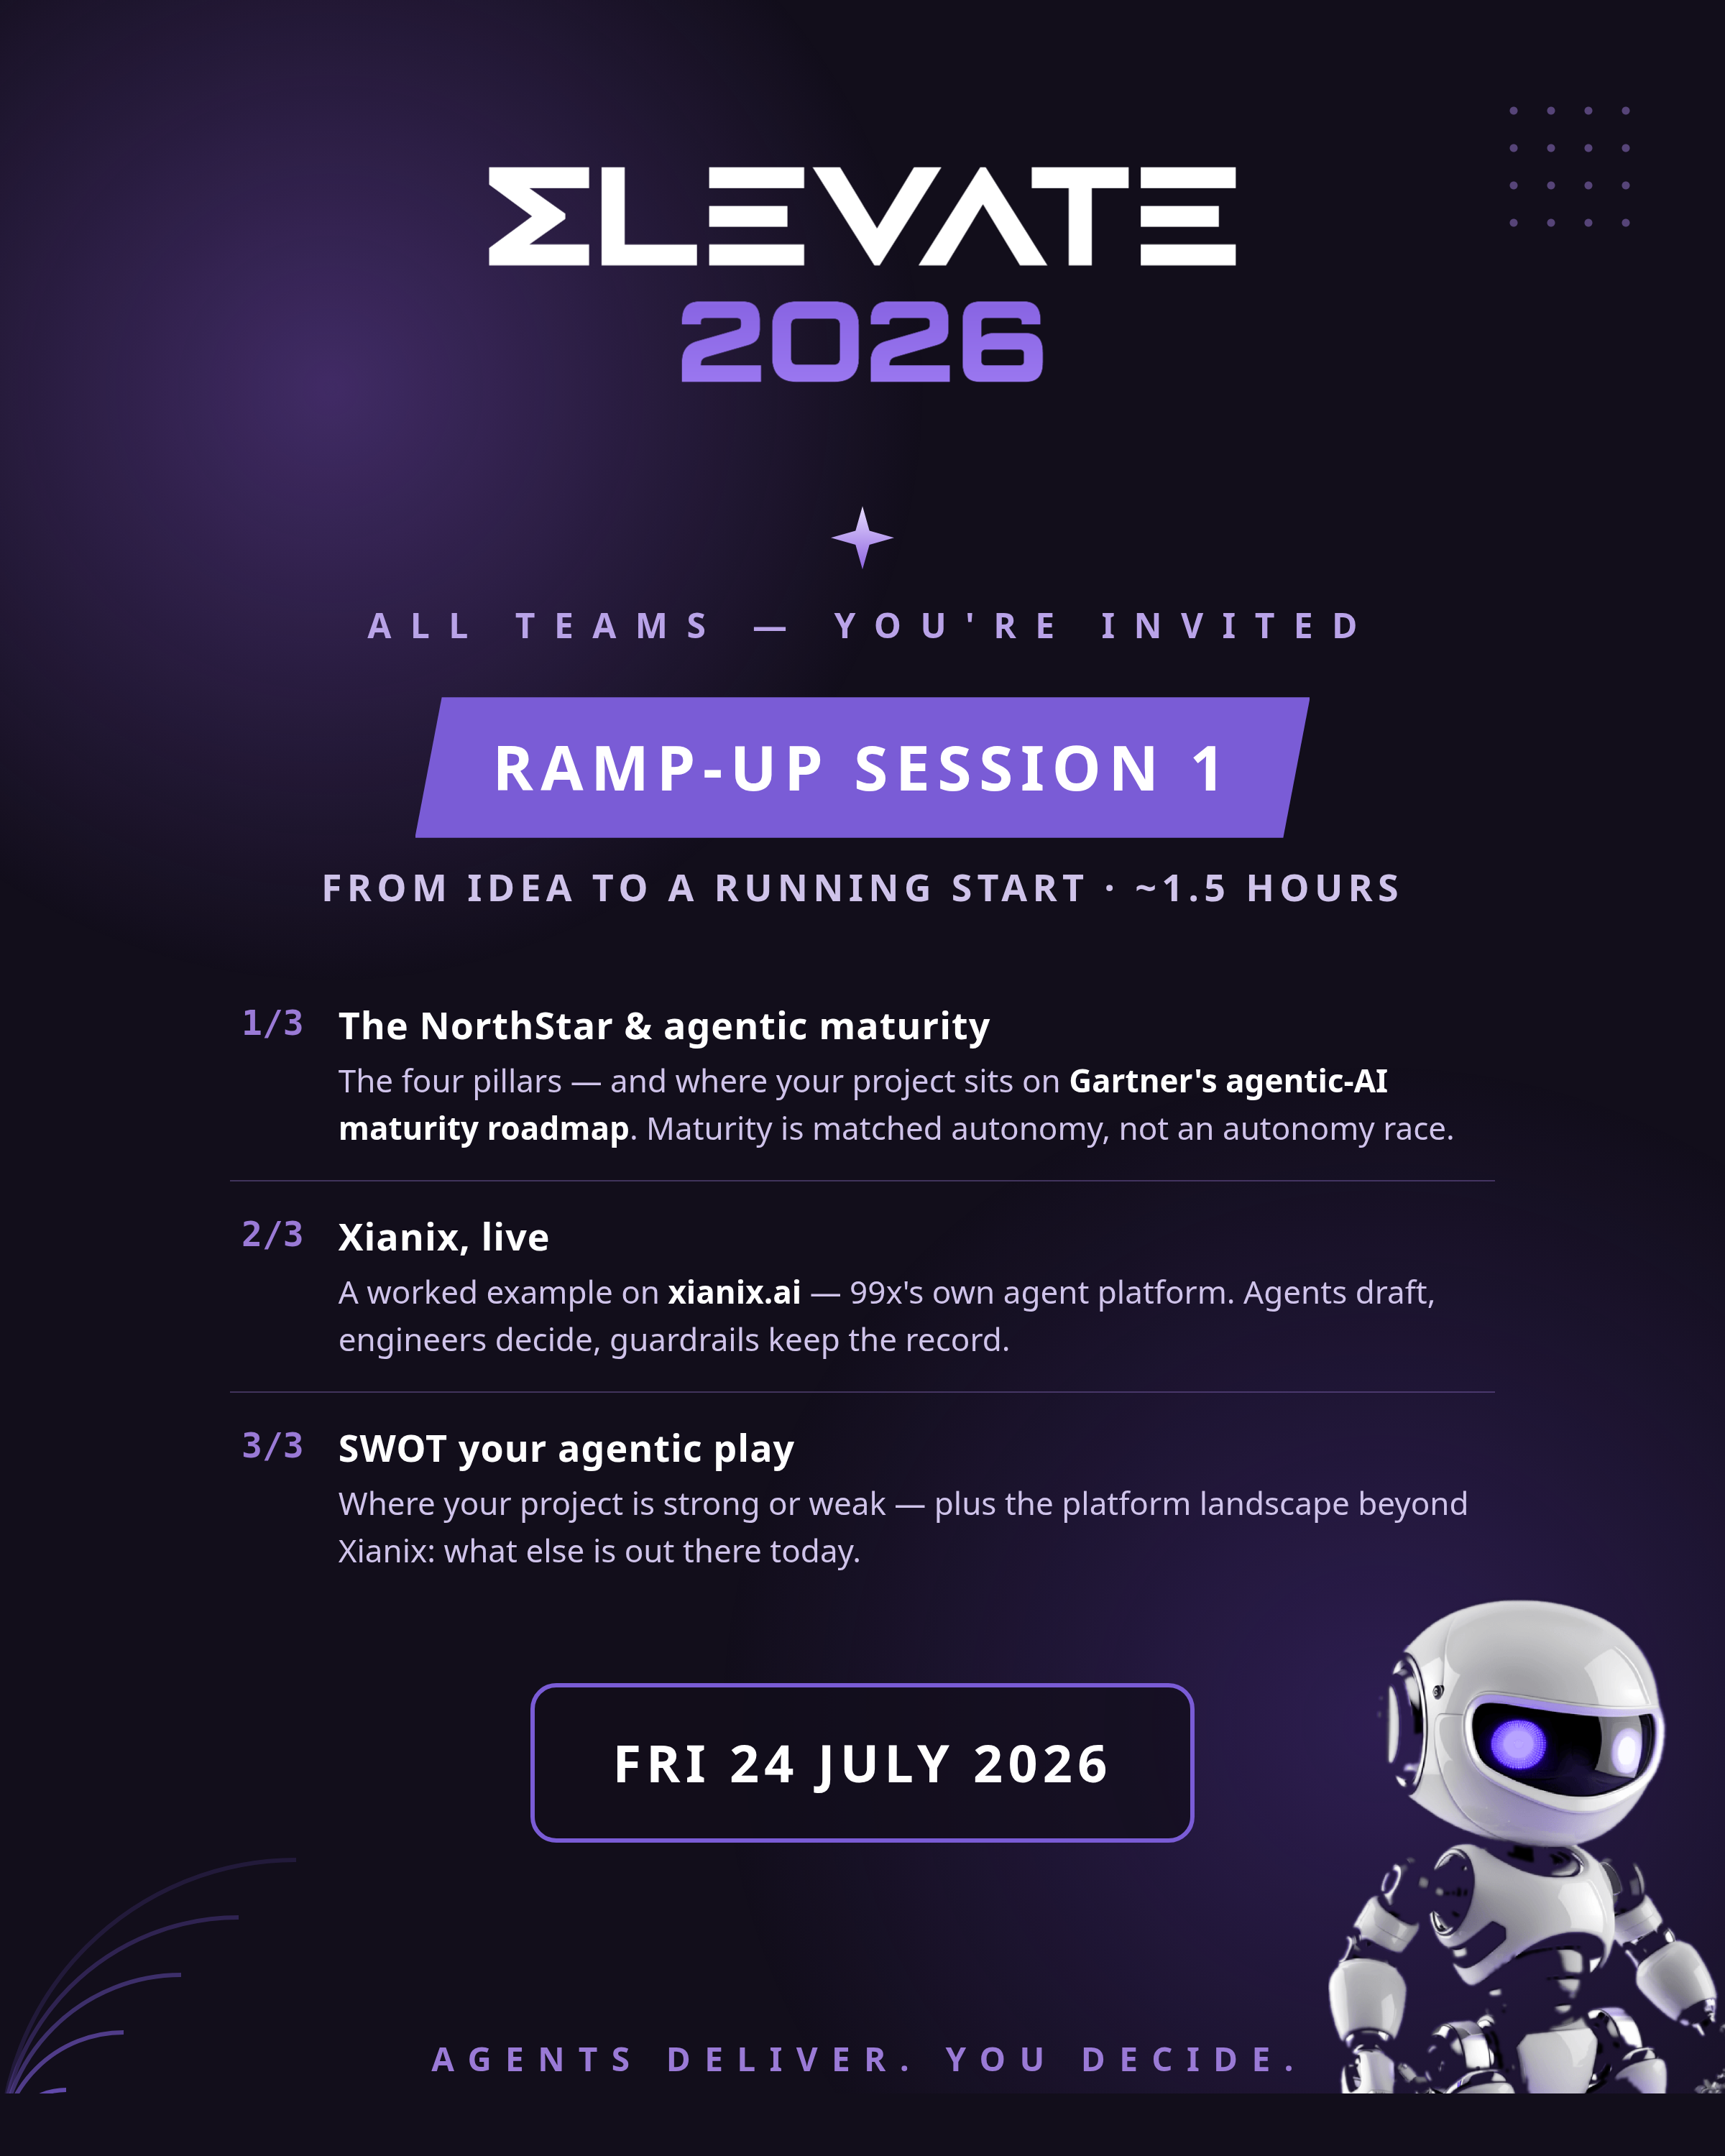
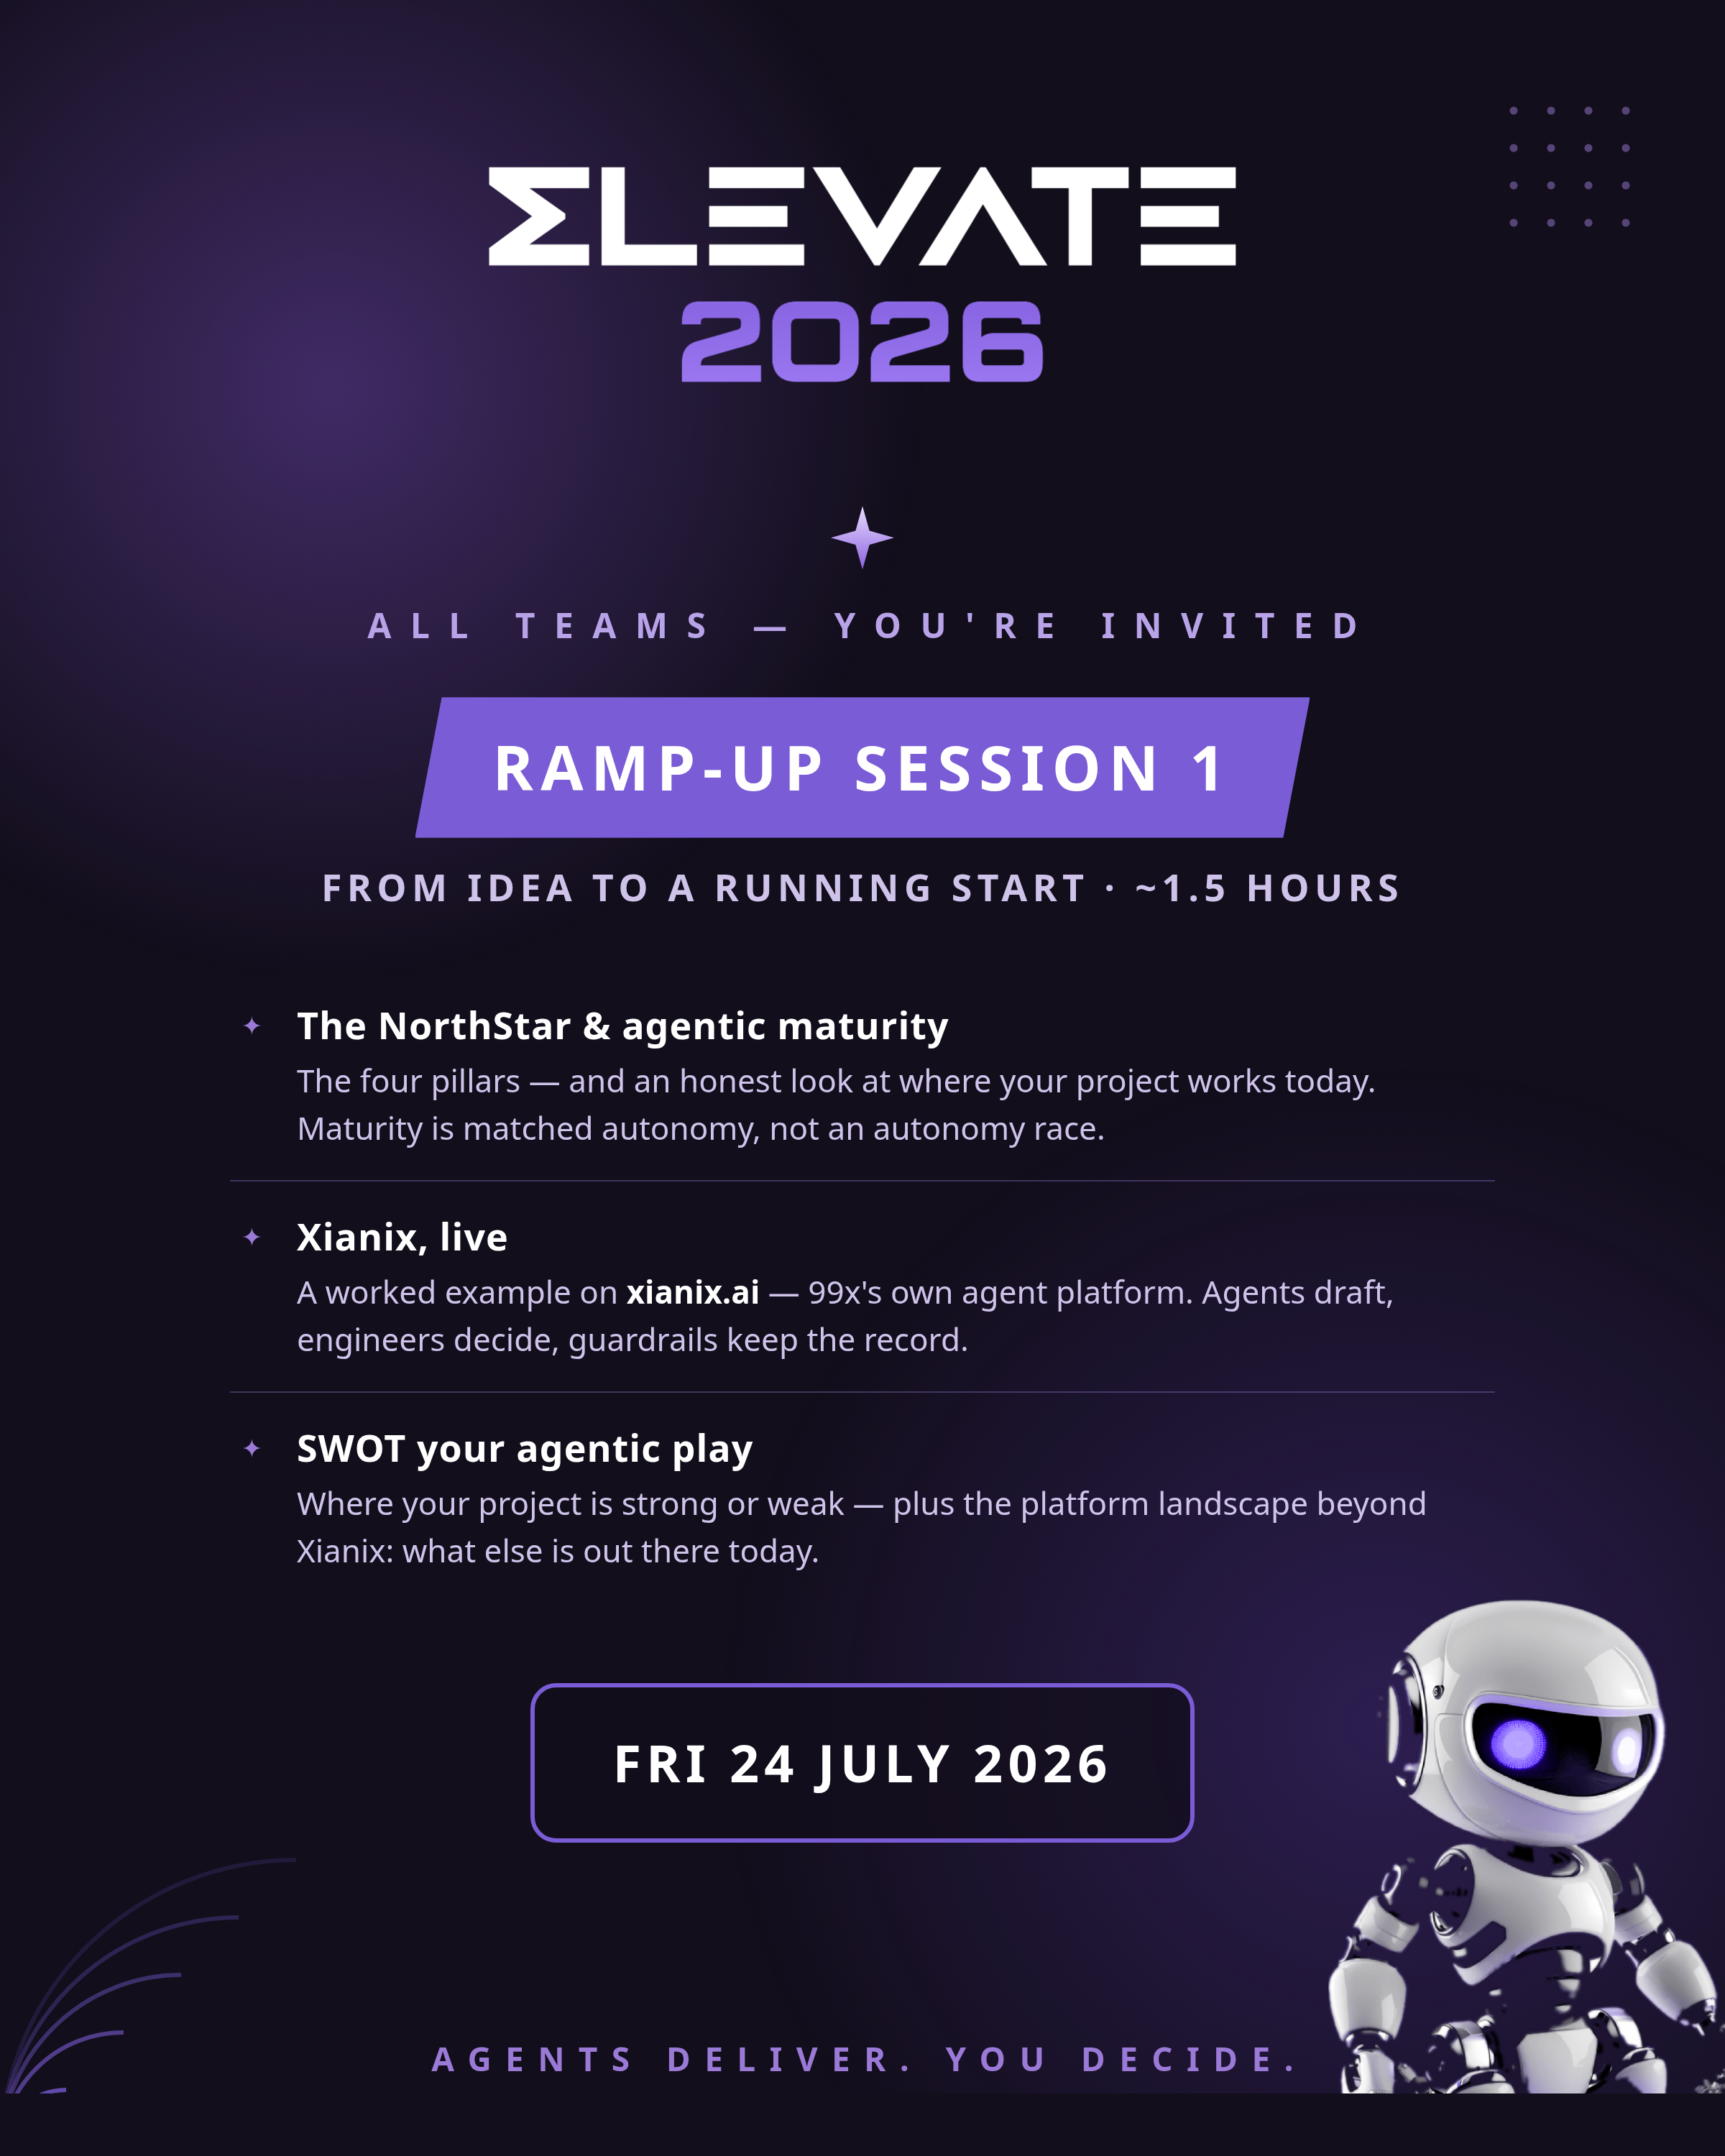
Publish public site from asitha-w/ELEVATE2026

Changed region(s): [[0.1562, 0.558, 0.8438, 0.744], [0.1562, 0.465, 0.8125, 0.527]]

diff --git a/index.html b/index.html
@@ -607,17 +607,15 @@
       <h3>Ramp-up Session 1 — from idea to a running start</h3>
       <span class="when">Fri 24 Jul · ~1.5h</span>
       <ul>
-        <li><b>1/3 · The NorthStar &amp; agentic maturity</b> — plug the four pillars, then locate each
-            project on <b>Gartner's agentic-AI maturity roadmap</b> (five levels: task-specific
-            assistants → single agents with human gates → orchestrated multi-agent systems →
-            largely autonomous operations). The takeaway: <b>maturity is matched autonomy, not an
-            autonomy race</b> — Gartner predicts 40%+ of agentic projects canceled by 2027 for
-            unclear value, exactly what our rubric scores against.</li>
-        <li><b>2/3 · Xianix, live</b> — a worked example on <a href="https://xianix.ai/">xianix.ai</a>,
+        <li><b>The NorthStar &amp; agentic maturity</b> — the four pillars, and an honest look at
+            where each project works today. The takeaway: <b>maturity is matched autonomy, not an
+            autonomy race</b> — autonomy without clear value is exactly what the scorecard
+            scores against.</li>
+        <li><b>Xianix, live</b> — a worked example on <a href="https://xianix.ai/">xianix.ai</a>,
             99x's own agent platform: FDE-style pods of AI agents + human engineers.
             <i>"AI agents do the work. Humans own the outcome"</i> — the same thesis as our tagline.
             Built on Claude Code plugins, open, no vendor lock-in.</li>
-        <li><b>3/3 · SWOT + the platform landscape</b> — each team SWOTs its agentic play, with a map
+        <li><b>SWOT + the platform landscape</b> — each team SWOTs its agentic play, with a map
             of what's popular beyond Xianix as of today: <b>managed platforms</b> — Microsoft Copilot
             Studio, AWS Bedrock AgentCore, Google Vertex AI Agent Builder, OpenAI's agent platform,
             Salesforce Agentforce; <b>frameworks &amp; SDKs</b> — LangGraph, Claude Agent SDK / Claude